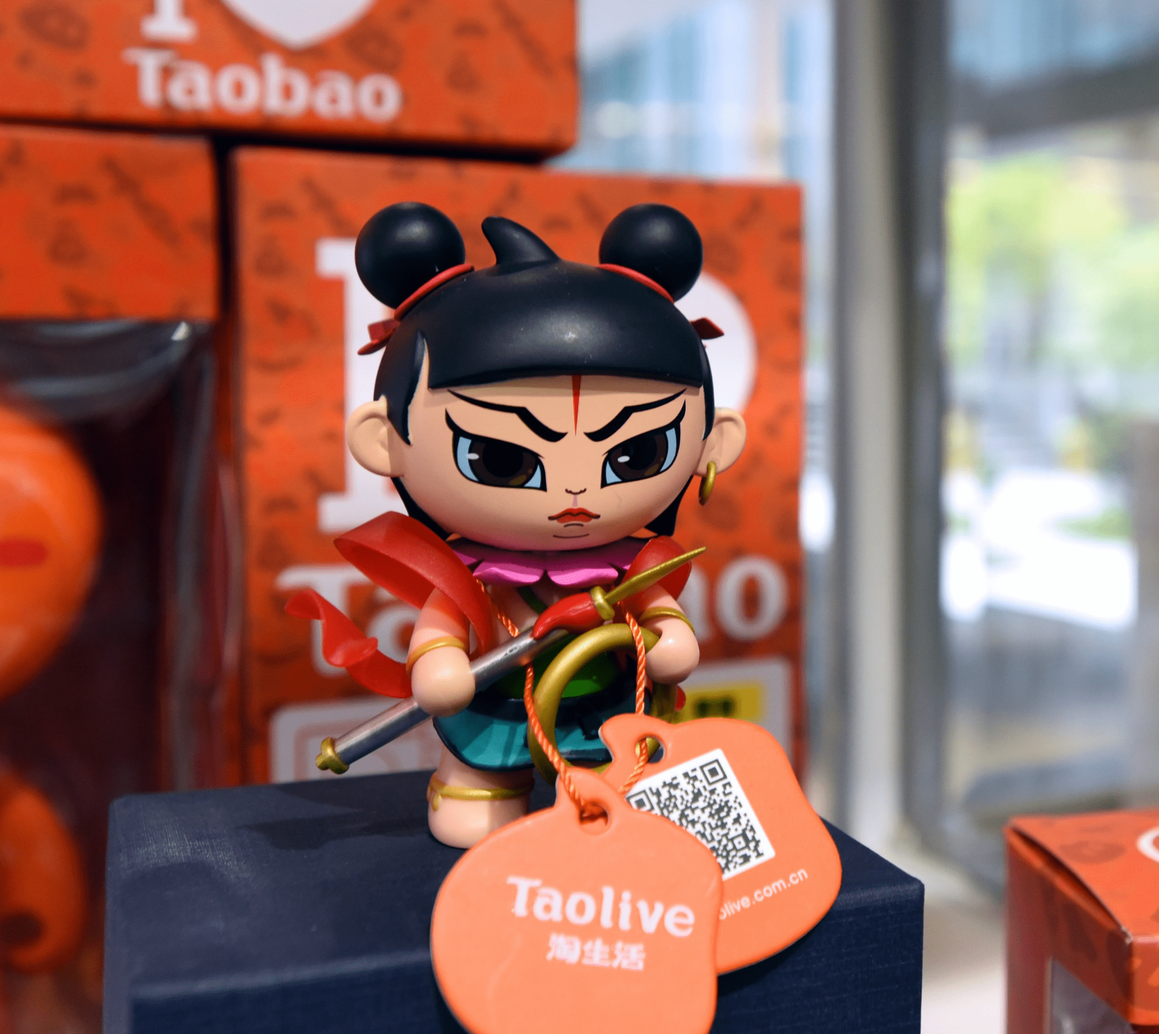
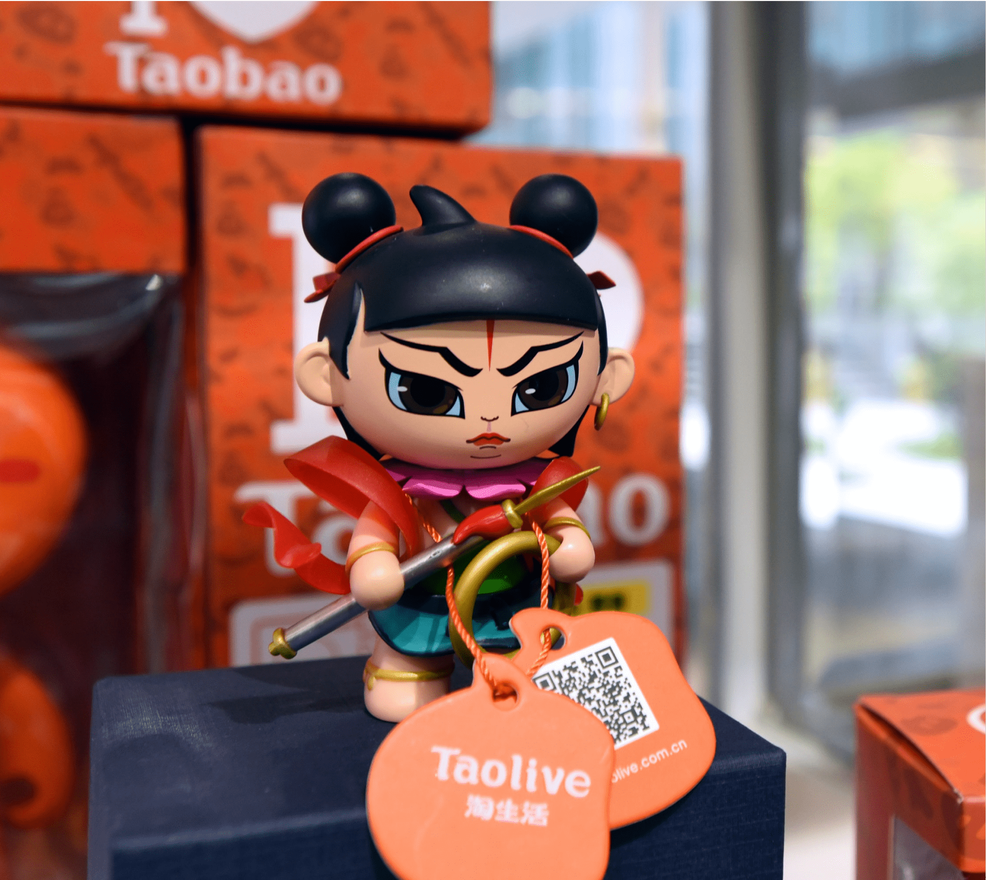
fix img

diff --git a/scss/base/main.css b/scss/base/main.css
@@ -1317,13 +1317,13 @@ a {
 }
 
 .modal-intro__img .content-2 {
-  -webkit-transform: scale(1.2) translate(0%, -30%);
-          transform: scale(1.2) translate(0%, -30%);
+  -webkit-transform: scale(1.6) translate(0%, -20%);
+          transform: scale(1.6) translate(0%, -20%);
 }
 
 .modal-intro__img .content-3 {
-  -webkit-transform: scale(1.2) translate(0%, 15%);
-          transform: scale(1.2) translate(0%, 15%);
+  -webkit-transform: scale(1.2) translate(0%, 5%);
+          transform: scale(1.2) translate(0%, 5%);
 }
 
 .modal-intro__img .content-5 {
@@ -1334,6 +1334,12 @@ a {
 .modal-intro__img .content-6 {
   -webkit-transform: scale(1.4) translate(0%, 0%);
           transform: scale(1.4) translate(0%, 0%);
+}
+
+.modal-intro__img .content-7 {
+  -webkit-transform: scale(1.7) translate(0%, 0%);
+          transform: scale(1.7) translate(0%, 0%);
+  background-color: #e7e7e7;
 }
 
 .modal-rezult {
@@ -1399,13 +1405,13 @@ a {
 }
 
 .modal-rezult .content-2 {
-  -webkit-transform: scale(1.2) translate(0%, -30%);
-          transform: scale(1.2) translate(0%, -30%);
+  -webkit-transform: scale(1.6) translate(0%, -20%);
+          transform: scale(1.6) translate(0%, -20%);
 }
 
 .modal-rezult .content-3 {
-  -webkit-transform: scale(1.2) translate(0%, 15%);
-          transform: scale(1.2) translate(0%, 15%);
+  -webkit-transform: scale(1.2) translate(0%, 5%);
+          transform: scale(1.2) translate(0%, 5%);
 }
 
 .modal-rezult .content-5 {
@@ -1932,13 +1938,11 @@ a {
 }
 
 .works-card.works-card--vanguard .works-card__logo {
-  -webkit-transform: translate(7.2vw, 26px);
-          transform: translate(7.2vw, 26px);
-  width: 14vw;
+  -webkit-transform: translate(9.2vw, 26px);
+          transform: translate(9.2vw, 26px);
+  width: 10vw;
   -webkit-transition: 1s;
   transition: 1s;
-  -webkit-animation: resizeBox2 1s forwards cubic-bezier(0, 0, 0.35, 0.84);
-          animation: resizeBox2 1s forwards cubic-bezier(0, 0, 0.35, 0.84);
 }
 
 .works-card.works-card--vanguard:hover::after {
@@ -1953,8 +1957,6 @@ a {
   scale: 0.20;
   -webkit-transition: all 1s ease;
   transition: all 1s ease;
-  -webkit-animation: resizeBox 1s forwards cubic-bezier(0, 0, 0.39, 0.73);
-          animation: resizeBox 1s forwards cubic-bezier(0, 0, 0.39, 0.73);
 }
 
 .works-card.works-card--vanguard:hover .works-card__logo svg {

diff --git a/index.html b/index.html
@@ -1020,7 +1020,7 @@
           <div class="modal-intro__img">
             <img
       
-              class="content-5"
+              class="content-3"
               src="image/modal-top/roz.png"
               alt=""
             />
@@ -1305,7 +1305,7 @@
           <div class="modal-rezult__img">
             <img
               loading="lazy"
-              class="content-2"
+              class="content-1"
               src="image/card-top/wo.png"
               alt=""
             />
@@ -1535,7 +1535,7 @@
           <div class="modal-intro__img">
             <img
     
-              class="content-5"
+              class="content-3"
               src="image/card/thirty-six-card-inner_1.jpg"
               alt=""
             />
@@ -1546,7 +1546,7 @@
           <div class="modal-rezult__img">
             <img
               loading="lazy"
-              class="content-2"
+              class="content-8"
               src="image/card-top/366.png"
               alt=""
             />
@@ -1707,7 +1707,7 @@
           <div class="modal-intro__img">
             <img
          
-              class="content-5"
+              class="content-3"
               src="image/modal-top/gravion.png"
               alt=""
             />
@@ -1717,7 +1717,7 @@
           <h2 class="modal-rezult__title">Результаты</h2>
           <div class="modal-rezult__img">
             <img
-              loading="lazy"
+           
               class="content-5"
               src="image/card/Gravion-card-inner_2.jpg"
               alt=""
@@ -1807,7 +1807,7 @@
           <div class="modal-rezult__img">
             <img
               loading="lazy"
-              class="content-2"
+              class="content-1"
               src="image/card-top/gorzdrav.png"
               alt=""
             />
@@ -1896,7 +1896,7 @@
           <div class="modal-intro__img">
             <img
             
-              class="content-5"
+              class="content-3"
               src="image/modal-top/beautymaker.png"
               alt=""
             />

diff --git a/js/script.js b/js/script.js
@@ -137,18 +137,19 @@ document.addEventListener('DOMContentLoaded', function () {
             const content5 = document.querySelectorAll('.content-5')
             const content6 = document.querySelectorAll('.content-6')
             const content7 = document.querySelectorAll('.content-7')
+            const content8 = document.querySelectorAll('.content-8')
             let sum = el.scrollTop / 40;
             let sum2 = el.scrollTop / 55;
             let sum3 = el.scrollTop / 55;
             let sum5 = el.scrollTop / 55;
             content.forEach((ell) => {
-                ell.style.transform = `scale(1.3) translate(0%,-${sum + 1}%)`;
+                ell.style.transform = `scale(1.4) translate(0%,${sum2 - 30}%)`;
             });
             content2.forEach((ell) => {
-                ell.style.transform = `scale(1.2) translate(0%,${sum2 - 30}%)`;
+                ell.style.transform = `scale(1.6) translate(0%,${sum2 - 20}%)`;
             });
             content3.forEach((ell) => {
-                ell.style.transform = `scale(1.2) translate(0%,${sum2 + 15}%)`;
+                ell.style.transform = `scale(1.2) translate(0%,${sum2 + 5}%)`;
             });
             content5.forEach((ell) => {
                 ell.style.transform = `scale(1.2) translate(0%,${sum2 - 10}%)`;
@@ -157,7 +158,10 @@ document.addEventListener('DOMContentLoaded', function () {
                 ell.style.transform = `scale(1.4) translate(0%,${sum2 - 0}%)`;
             });
             content7.forEach((ell) => {
-                ell.style.transform = `scale(1.8) translate(0%,${sum2 - 10}%)`;
+                ell.style.transform = `scale(1.8) translate(0%,${sum2 - 20}%)`;
+            });
+            content8.forEach((ell) => {
+                ell.style.transform = `scale(1.1) translate(0%,${sum2 - 10}%)`;
             });
         });
 

diff --git a/scss/components/_works.scss b/scss/components/_works.scss
@@ -398,10 +398,10 @@
 
     &.works-card--vanguard {
         .works-card__logo {
-            transform: translate(7.2vw, 26px);
-            width: 14vw;
+            transform: translate(9.2vw, 26px);
+            width: 10vw;
             transition: 1s;
-            animation: resizeBox2 1s forwards cubic-bezier(0, 0, 0.35, 0.84);
+            // animation: resizeBox2 1s forwards cubic-bezier(0, 0, 0.35, 0.84);
             // transition: transform 1s cubic-bezier(0, 0, 0.35, 0.84), all 1s ease, -webkit-transform 1s cubic-bezier(0, 0, 0.35, 0.84);        
         }
 
@@ -418,7 +418,7 @@
                 scale: 0.20;
                 transition:  all 1s ease;
                 // transition: scale 642.776ms ease 1s, transform 1s ease, all 0s ease, -webkit-transform 1s ease;
-                animation: resizeBox 1s forwards cubic-bezier(0, 0, 0.39, 0.73);
+                // animation: resizeBox 1s forwards cubic-bezier(0, 0, 0.39, 0.73);
                 // transition:transform 1s cubic-bezier(0, 0, 0.39, 0.73),  all 1s cubic-bezier(0, 0, 0.39, 0.73);
                 svg {
 

diff --git a/scss/components/_modal.scss b/scss/components/_modal.scss
@@ -416,17 +416,21 @@
       transform: scale(1.3) translate(0%, 15%);
     }
     .content-2 {
-      transform: scale(1.2) translate(0%, -30%);
+      transform: scale(1.6) translate(0%, -20%);
     }
-
+  
     .content-3 {
-      transform: scale(1.2) translate(0%, 15%);
+      transform: scale(1.2) translate(0%, 5%);
     }
     .content-5 {
       transform: scale(1.2) translate(0%, -10%);
     }
     .content-6 {
       transform: scale(1.4) translate(0%, 0%);
+    }
+    .content-7 {
+      transform: scale(1.7) translate(0%, 0%);
+      background-color: #e7e7e7;
     }
   }
 }
@@ -498,11 +502,11 @@
     transform: scale(1.3) translate(0%, 15%);
   }
   .content-2 {
-    transform: scale(1.2) translate(0%, -30%);
+    transform: scale(1.6) translate(0%, -20%);
   }
 
   .content-3 {
-    transform: scale(1.2) translate(0%, 15%);
+    transform: scale(1.2) translate(0%, 5%);
   }
   .content-5 {
     transform: scale(1.2) translate(0%, -10%);
